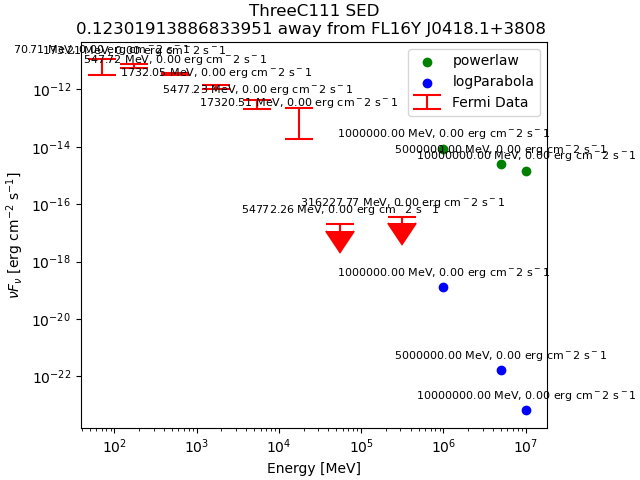
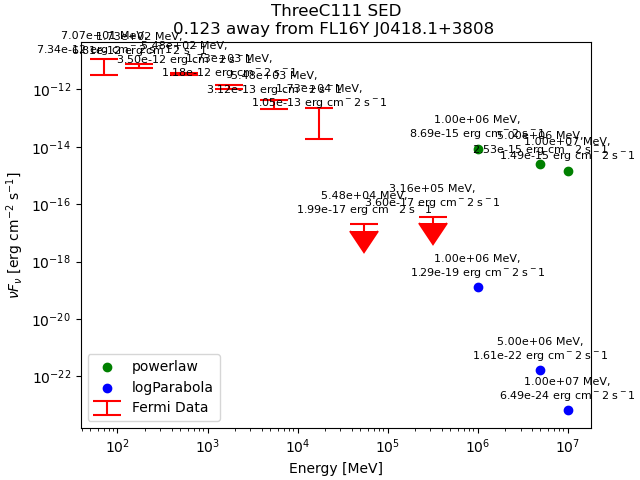
n

diff --git a/fermi/sourcesfermi.py b/fermi/sourcesfermi.py
@@ -156,21 +156,21 @@ for i, s in enumerate(sourceName):
             capsize=10,capthick=1.5,elinewidth=1.5,
             label="Fermi Data")
     for x, y in zip(e_mids, nufnu[i]):
-        plt.annotate(f"{x:.2f} MeV, {y:.2f} erg cm$^{-2}$ s$^{-1}$",
+        plt.annotate(f"{x:.2e} MeV,\n{y:.2e} erg cm$^{-2}$ s$^{-1}$",
                  xy=(x, y), xytext=(0, 8),
                  textcoords='offset points',
                  fontsize=8, ha='center')
 
     plt.scatter(sy_en,nuFnu_PL,label="powerlaw",color='green')
     for x, y in zip(sy_en, nuFnu_PL):
-        plt.annotate(f"{x:.2f} MeV, {y:.2f} erg cm$^{-2}$ s$^{-1}$",
+        plt.annotate(f"{x:.2e} MeV,\n{y:.2e} erg cm$^{-2}$ s$^{-1}$",
                  xy=(x, y), xytext=(0, 8),
                  textcoords='offset points',
                  fontsize=8, ha='center')
 
     plt.scatter(sy_en,nuFnu_LP,label="logParabola",color='blue')
     for x, y in zip(sy_en, nuFnu_LP):
-        plt.annotate(f"{x:.2f} MeV, {y:.2f} erg cm$^{-2}$ s$^{-1}$",
+        plt.annotate(f"{x:.2e} MeV,\n{y:.2e} erg cm$^{-2}$ s$^{-1}$",
                  xy=(x, y), xytext=(0, 8),
                  textcoords='offset points',
                  fontsize=8, ha='center')
@@ -179,7 +179,7 @@ for i, s in enumerate(sourceName):
     plt.xscale('log')
     plt.xlabel('Energy [MeV]')
     plt.ylabel(r"$\nu F_{\nu}$ [erg cm$^{-2}$ s$^{-1}$]")
-    plt.title(f"{s} SED\n{sep_deg} away from {fermiName[i]}")
+    plt.title(f"{s} SED\n{sep_deg:.3f} away from {fermiName[i]}")
     plt.legend()
     plt.savefig(f"seds/{s}_sed.png")
     plt.close()
